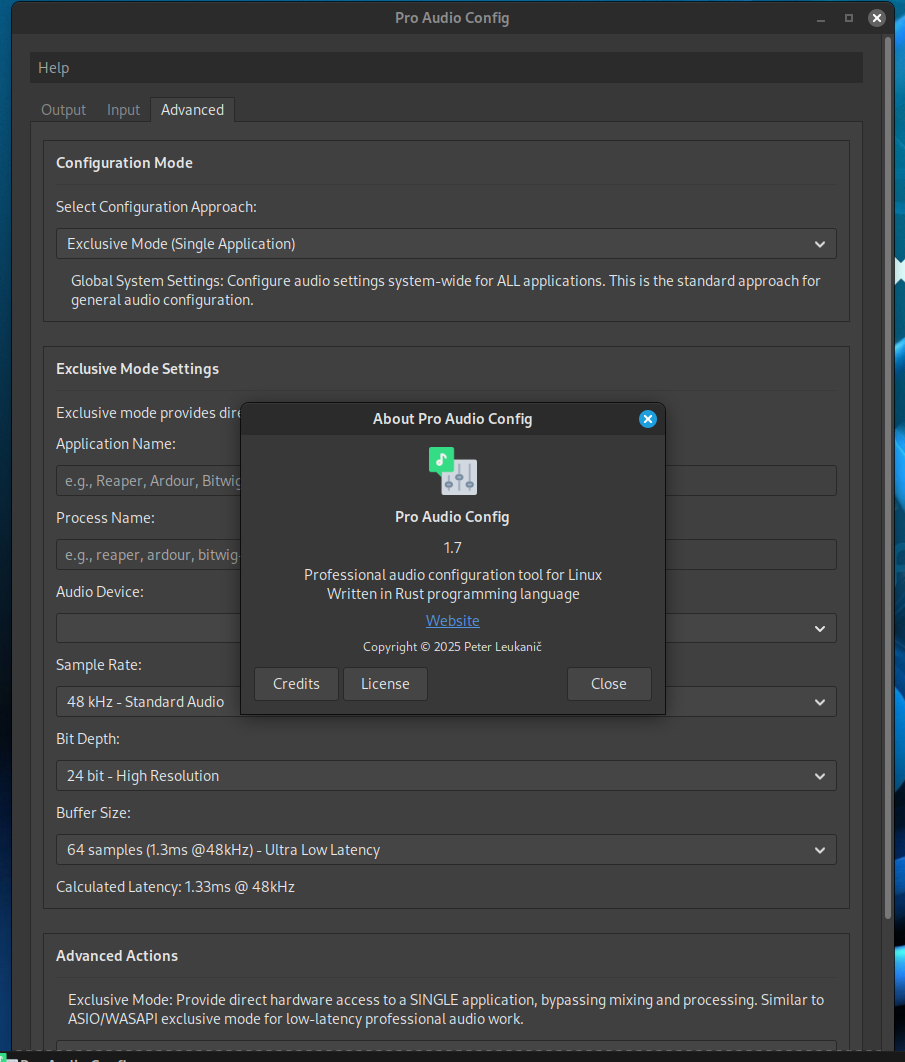
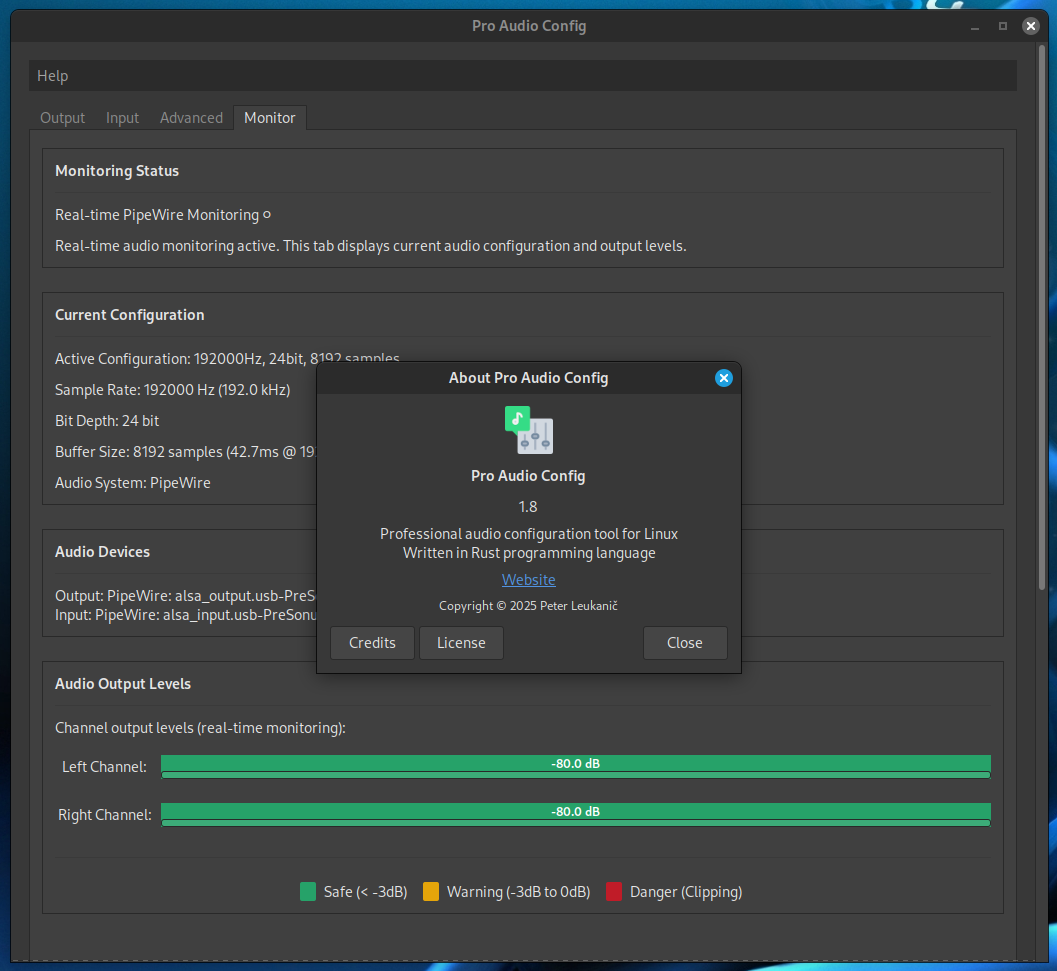
docs(readme,scrshots): Adding relevant info

diff --git a/src/ui.rs b/src/ui.rs
@@ -2180,7 +2180,7 @@ pub fn show_about_dialog() {
 
     dialog.set_title("About Pro Audio Config");
     dialog.set_program_name("Pro Audio Config");
-    dialog.set_version(Some("1.7"));
+    dialog.set_version(Some("1.8"));
     dialog.set_website(Some("https://github.com/Peter-L-SVK/pro_audio_config"));
     dialog.set_copyright(Some("Copyright © 2025 Peter Leukanič"));
     dialog.set_authors(&["Peter Leukanič"]);

diff --git a/README.md b/README.md
@@ -13,8 +13,18 @@ After 10 years of using Fedora and other Linux distributions, I realized we're s
 
 ## Features
 
-All current features are showcased in the  [Gallery](https://github.com/Peter-L-SVK/pro_audio_config/blob/main/scrshots/README.md) 
+All current features are showcased in the  [Gallery](https://github.com/Peter-L-SVK/pro_audio_config/blob/main/scrshots/README.md)
 
+### 🎚 **Real-time Audio Monitoring Tab**
+- **Live Audio Level Meters**: Visual monitoring of stereo channel output levels with real-time PipeWire integration
+- **Color-coded Visual Feedback**: Safe (green), warning (yellow), and clipping (red) zones with blinking indicators
+- **Real System Audio Monitoring**: Taps into PipeWire monitor sources for accurate system-wide audio level measurement
+- **Smooth Meter Animation**: 10 FPS updates with proper threading for responsive UI performance
+- **DB Scale Display**: Accurate decibel readings with peak and RMS calculations
+- **Auto-detection Fallback**: Intelligent fallback to simulation mode when PipeWire isn't available
+- **Professional Metering**: Studio-grade level monitoring with proper threshold matching industry standards
+
+### 🔧 **Device and Configuration Management**
 - **Device Detection**: Automatically detects and displays current audio devices (PipeWire, ALSA, PulseAudio)
 - **Sample Rate Configuration**: Support for rates from 44.1 kHz to 384 kHz
 - **Bit Depth Settings**: 16-bit, 24-bit, and 32-bit audio formats
@@ -24,12 +34,13 @@ All current features are showcased in the  [Gallery](https://github.com/Peter-L
 - **No Terminal Required**: Graphical interface that anyone can use
 - **Privilege Escalation**: Secure privilege escalation for system-level audio configuration
 
-### Multi-Tab Interface
+### 🗂 **Multi-Tab Interface**
 - **Separate Input/Output Configuration**: Dedicated tabs for playback (output) and recording (input) devices
+- **Real-time Monitoring Tab**: Dedicated monitoring interface with live audio meters
 - **Independent Settings Management**: Configure input and output devices with different sample rates, bit depths, and buffer sizes
-- **Clear Visual Separation**: Intuitive tabbed interface that clearly distinguishes between recording and playback settings
+- **Clear Visual Separation**: Intuitive tabbed interface that clearly distinguishes between recording, playback, and monitoring functions
 
-### Advanced Tab Features
+### ⚡ **Advanced Tab Features**
 - **Configuration Modes**: Switch between Global System Settings and Exclusive Mode
 - **Professional Audio Settings**: Fine-tune buffer size ranges, thread priorities, and memory locking
 - **Exclusive Mode**: Direct hardware access for single applications (similar to ASIO/WASAPI exclusive mode)
@@ -38,12 +49,12 @@ All current features are showcased in the  [Gallery](https://github.com/Peter-L
 - **Resampling Control**: Adjust resampler quality or disable automatic resampling entirely
 - **Channel Management**: Option to disable automatic channel remixing for professional workflows
 
-### Configuration Scope
+### 🔍 **Configuration Scope**
 - **User-Specific Configuration**: Apply settings only for the current user (default)
 - **System-Wide Configuration**: Apply settings for all users on the system (requires admin privileges)
 - **Flexible Deployment**: Choose between user-specific or system-wide configuration based on your needs
 
-### Advanced Configuration
+### 🛠 **Advanced Configuration**
 - **Dedicated WirePlumber Configs**: Separate configuration generators for input vs output devices
 - **Independent Signal Handlers**: Each tab manages its own settings and apply operations
 - **Comprehensive Testing**: Extensive test suite covering new input/output separation features
@@ -69,18 +80,16 @@ This tool is designed to grow with PipeWire and Linux audio:
 
 As audio companies improve their Linux driver support and PipeWire continues to evolve, this tool will be ready to leverage those advancements immediately.
 
-
 ## Roadmap
 
-- [ ] Package manager support (RPM/DEB/Flatpak)
+- [x] **Real-time Audio Monitoring** - Live level meters with PipeWire integration
 - [x] Setting all available devices in one session
 - [x] Separate input/output configuration tabs
 - [x] User vs system-wide configuration scope
+- [ ] Package manager support (RPM/DEB/Flatpak)
 - [ ] Additional audio backends (JACK)
 - [ ] Preset configurations
 - [x] Advanced audio routing
-- [x] Real-time audio monitoring
-
 
 ## Installation
 

diff --git a/scrshots/README.md b/scrshots/README.md
@@ -21,6 +21,9 @@
 ![Running the program](scr9.png)  
 *(In the task manager)*  
 
+![Running the program](scr10.png)  
+*(Monitoring)*  
+
 ![About](scr7.png)  
 *(Help -> About)*  
 
